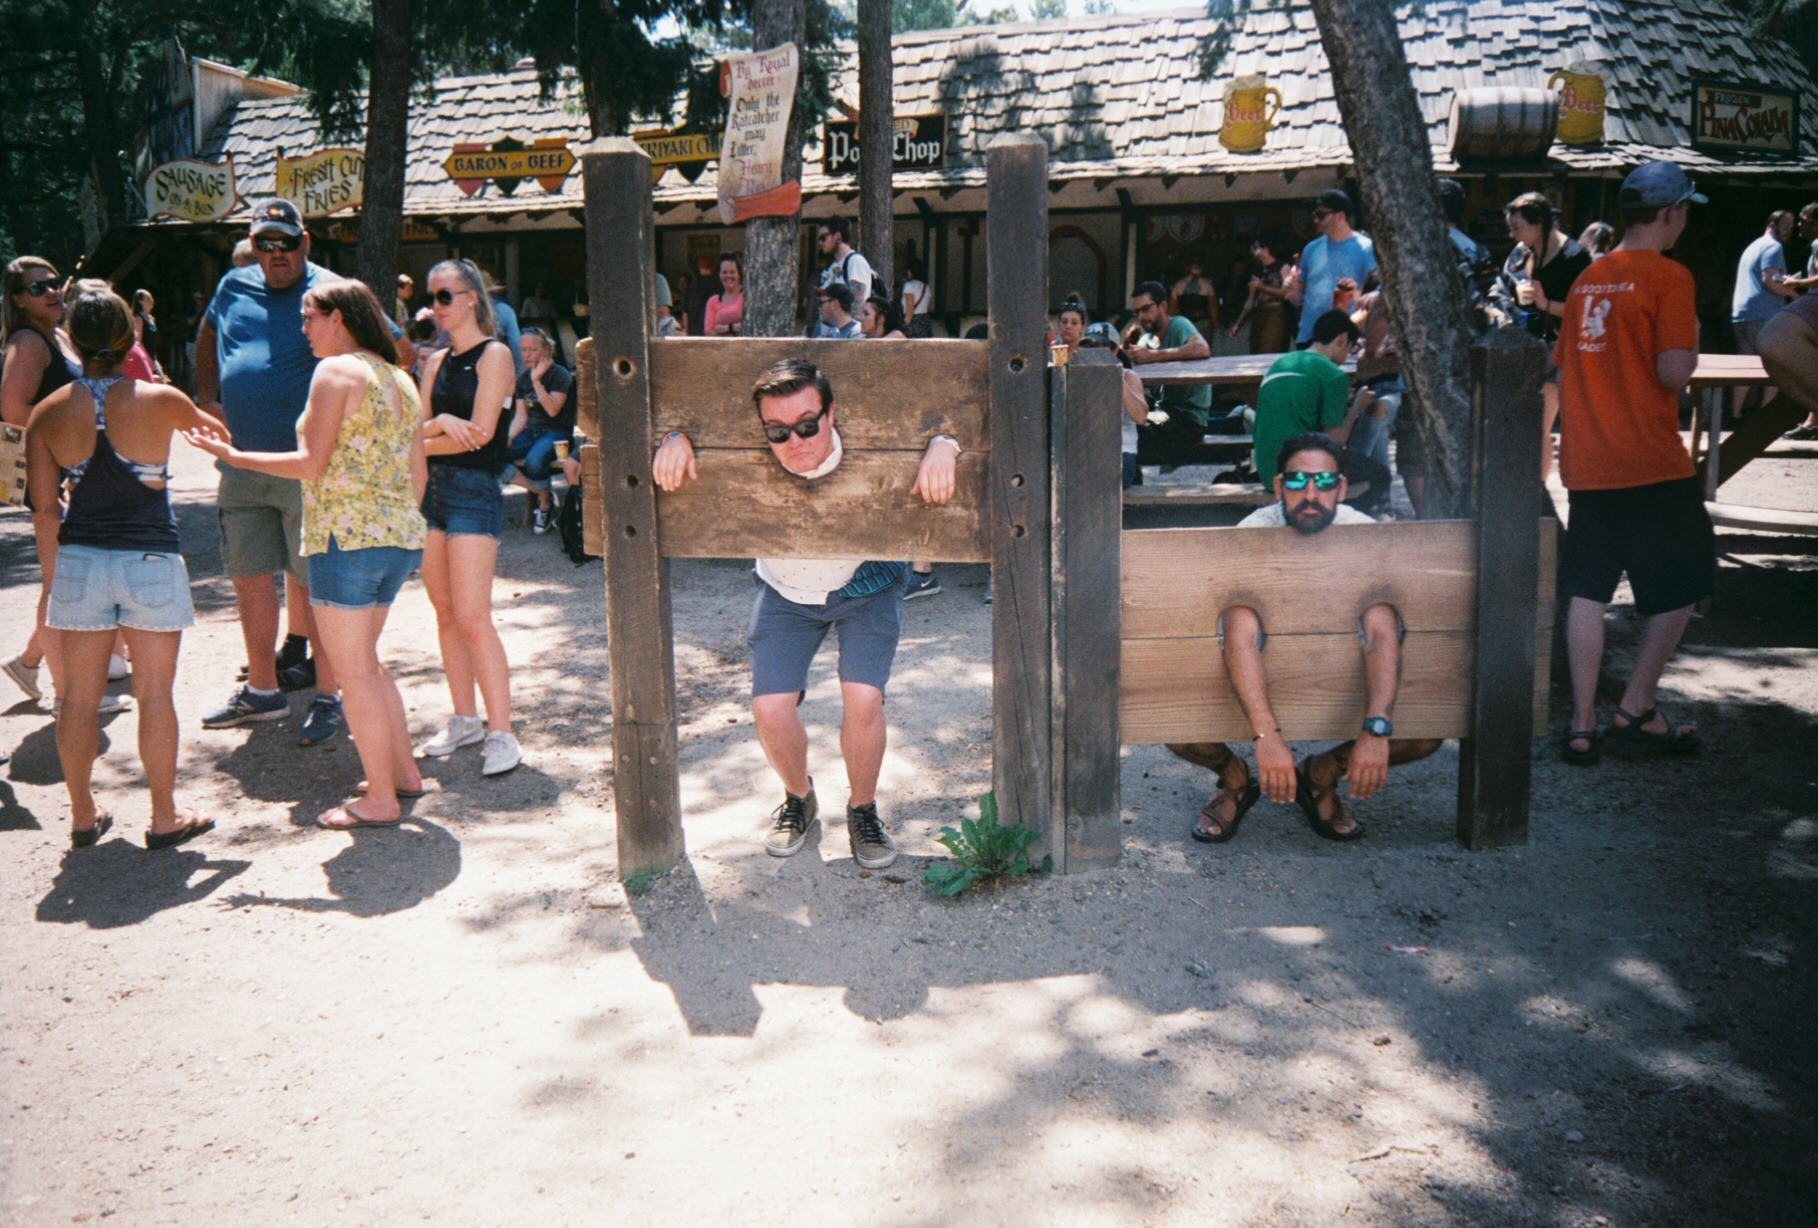
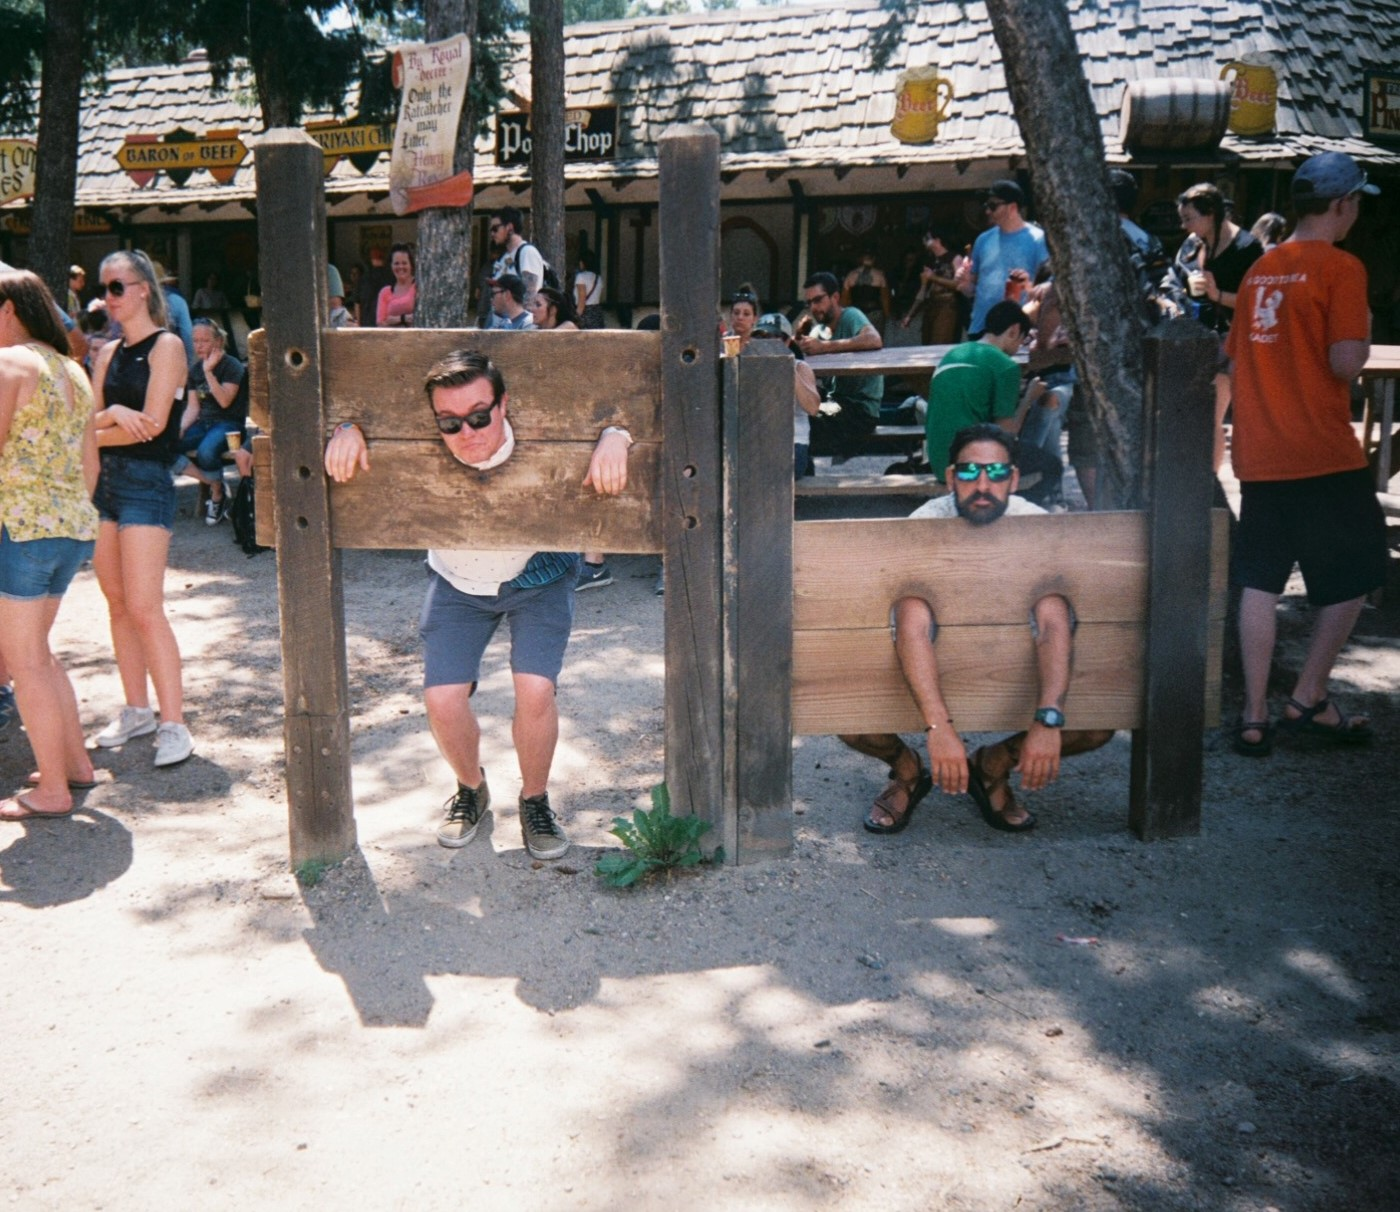
added reset.css, added border to portfolio pics w/ bootstrap class, added size reactivity to all pictures.

diff --git a/reset.css b/reset.css
@@ -1,0 +1,84 @@
+meyerweb.com
+Main content
+Navigation links
+Footer
+Post Archives
+CSS Work
+Toolbox
+Writing
+Speaking
+Other Stuff
+About this site
+CSS Tools: Reset CSS
+The goal of a reset stylesheet is to reduce browser inconsistencies in things like default line heights, margins and font sizes of headings, and so on. The general reasoning behind this was discussed in a May 2007 post, if you're interested. Reset styles quite often appear in CSS frameworks, and the original "meyerweb reset" found its way into Blueprint, among others.
+
+The reset styles given here are intentionally very generic. There isn't any default color or background set for the body element, for example. I don't particularly recommend that you just use this in its unaltered state in your own projects. It should be tweaked, edited, extended, and otherwise tuned to match your specific reset baseline. Fill in your preferred colors for the page, links, and so on.
+
+In other words, this is a starting point, not a self-contained black box of no-touchiness.
+
+If you want to use my reset styles, then feel free! It's all explicitly in the public domain (I have to formally say that or else people ask me about licensing). You can grab a copy of the file to use and tweak as fits you best. If you're more of the copy-and-paste type, or just want an in-page preview of what you'll be getting, here it is.
+
+/* http://meyerweb.com/eric/tools/css/reset/ 
+   v2.0 | 20110126
+   License: none (public domain)
+*/
+
+html, body, div, span, applet, object, iframe,
+h1, h2, h3, h4, h5, h6, p, blockquote, pre,
+a, abbr, acronym, address, big, cite, code,
+del, dfn, em, img, ins, kbd, q, s, samp,
+small, strike, strong, sub, sup, tt, var,
+b, u, i, center,
+dl, dt, dd, ol, ul, li,
+fieldset, form, label, legend,
+table, caption, tbody, tfoot, thead, tr, th, td,
+article, aside, canvas, details, embed, 
+figure, figcaption, footer, header, hgroup, 
+menu, nav, output, ruby, section, summary,
+time, mark, audio, video {
+	margin: 0;
+	padding: 0;
+	border: 0;
+	font-size: 100%;
+	font: inherit;
+	vertical-align: baseline;
+}
+/* HTML5 display-role reset for older browsers */
+article, aside, details, figcaption, figure, 
+footer, header, hgroup, menu, nav, section {
+	display: block;
+}
+body {
+	line-height: 1;
+}
+ol, ul {
+	list-style: none;
+}
+blockquote, q {
+	quotes: none;
+}
+blockquote:before, blockquote:after,
+q:before, q:after {
+	content: '';
+	content: none;
+}
+table {
+	border-collapse: collapse;
+	border-spacing: 0;
+}
+Previous Versions
+v1.0 (200802)
+Acknowledgments
+Thanks to Paul Chaplin for the blockquote / q rules.
+
+Identity Archipelago
+Twitter
+GitHub
+Flickr
+Dribbble
+Facebook
+LinkedIn
+The excuse of the day islunar gravitational forces
+All contents of this site, unless otherwise noted, are ©1993-2020 Eric A. and Kathryn S. Meyer. All Rights Reserved.
+"Thoughts From Eric" is powered by WordPress. Most of the rest of the site is hand-authored.
+The ink-sketch images used in this site’s design are adapted from Yūzan Mori’s Hamonshū, Volumes 1-3, published in 1903 and made available for public use by the Smithsonian Libraries and the Internet Archive.

diff --git a/portfolio.html b/portfolio.html
@@ -4,6 +4,7 @@
     <meta charset="UTF-8" />
     <meta name="viewport" content="width=device-width, initial-scale=1.0" />
     <title>Portfolio</title>
+    <link rel="stylesheet" href="./reset.css">
     <link
       rel="stylesheet"
       href="https://stackpath.bootstrapcdn.com/bootstrap/4.5.2/css/bootstrap.min.css"
@@ -22,10 +23,10 @@
       </button>
   <div class="collapse navbar-collapse" id="navbarNav">
     <ul class="navbar-nav">
-      <li class="nav-item active">
+      <li class="nav-item">
         <a class="nav-link" href="./contact.html">Contact</a>
       </li>
-      <li class="nav-item">
+      <li class="nav-item active">
         <a class="nav-link" href="./portfolio.html">Portfolio</a>
       </li>
       <li class="nav-item">
@@ -41,31 +42,34 @@
 <container>
 <h1>Portfolio</h1>
 <hr />
+
 <!-- first row of pictures  -->
 <main class="row">
-  <div class="col-md-6">
-<img class="portPic"  src="./assests/sk8-monster.jpg" alt="Seth and Kate"> 
+  <div class="col-sm-6">
+<img class="img-thumbnail"  src="./assests/sk8-monster.jpg" alt="Seth and Kate"> 
 </div>
-<div class="col-md-6">
-<img class="portPic" src="./assests/renFest.jpg" alt="Seth and Joe">
+<div class="col-sm-6">
+<img class="img-thumbnail" src="./assests/renFest.jpg" alt="Seth and Joe">
 </div>
 </main>
+
 <!-- second row of pictures  -->
 <main class="row">
-  <div class="col-md-6">
-<img class="portPic" src="./assests/dune.jpg" alt="Seth Sand dune">
+  <div class="col-sm-6">
+<img class="img-thumbnail" src="./assests/dune.jpg" alt="Seth Sand dune">
 </div>
-<div class="col-md-6">
-<img class="portPic" src="./assests/fam-GotG.jpg" alt="Seth Kate and Beans">
+<div class="col-sm-6">
+<img class="img-thumbnail" src="./assests/fam-GotG.jpg" alt="Seth Kate and Beans">
 </div>
 </main>
+
 <!-- third row of pictures  -->
 <main class="row">
-  <div class="col-md-6">
-<img class="portPic" src="./assests/sk8-GotG.jpg" alt="Seth and Kate">
+  <div class="col-sm-6">
+<img class="img-thumbnail" src="./assests/sk8-GotG.jpg" alt="Seth and Kate">
 </div>
-<div class="col-md-6">
-<img class="portPic" src="./assests/famfam.jpg" alt="Seth Kate and Beans">
+<div class="col-sm-6">
+<img class="img-thumbnail" src="./assests/famfam.jpg" alt="Seth Kate and Beans">
 </div>
 </main>
 

diff --git a/index.html b/index.html
@@ -4,14 +4,19 @@
     <meta charset="UTF-8" />
     <meta name="viewport" content="width=device-width, initial-scale=1.0" />
     <title>About Me - Seth Hulsmeyer</title>
+
+    <!-- reset automatic browser editing  -->
+    <link rel="stylesheet" href="./reset.css" />
+
+    <!-- link to Bootstrap  -->
     <link
       rel="stylesheet"
       href="https://stackpath.bootstrapcdn.com/bootstrap/4.5.2/css/bootstrap.min.css"
       integrity="sha384-JcKb8q3iqJ61gNV9KGb8thSsNjpSL0n8PARn9HuZOnIxN0hoP+VmmDGMN5t9UJ0Z"
       crossorigin="anonymous"
     />
+    <!-- link to custom css  -->
     <link rel="stylesheet" href="./index.css" />
-    <link rel="stylesheet" href="index.css" />
   </head>
   <body>
     <!-- All things NavBar -->
@@ -30,13 +35,13 @@
       </button>
       <div class="collapse navbar-collapse" id="navbarNav">
         <ul class="navbar-nav">
-          <li class="nav-item active">
+          <li class="nav-item">
             <a class="nav-link" href="./contact.html">Contact </a>
           </li>
           <li class="nav-item">
             <a class="nav-link" href="./portfolio.html">Portfolio</a>
           </li>
-          <li class="nav-item">
+          <li class="nav-item active">
             <a class="nav-link" href="./index.html">About</a>
           </li>
         </ul>

diff --git a/index.css b/index.css
@@ -25,18 +25,19 @@ container {
   border-radius: 25px;
 }
 container h1 {
-  color: rgb(0, 102, 255);
+  color: rgb(0, 132, 255);
 }
 
 .textwrap {
   float: left;
   height: 350px;
   width: 350px;
+  width: 50%;
+  height: 50%;
   margin-right: 20px;
 }
 
-.portPic {
-  width: 350px;
-  height: 350px;
-  margin: 5px;
+.img-thumbnail {
+  width: 95%;
+  height: 95%;
 }

diff --git a/contact.html b/contact.html
@@ -4,6 +4,7 @@
     <meta charset="UTF-8" />
     <meta name="viewport" content="width=device-width, initial-scale=1.0" />
     <title>Contact Info Page</title>
+    <link rel="stylesheet" href="./reset.css">
     <link
       rel="stylesheet"
       href="https://stackpath.bootstrapcdn.com/bootstrap/4.5.2/css/bootstrap.min.css"
